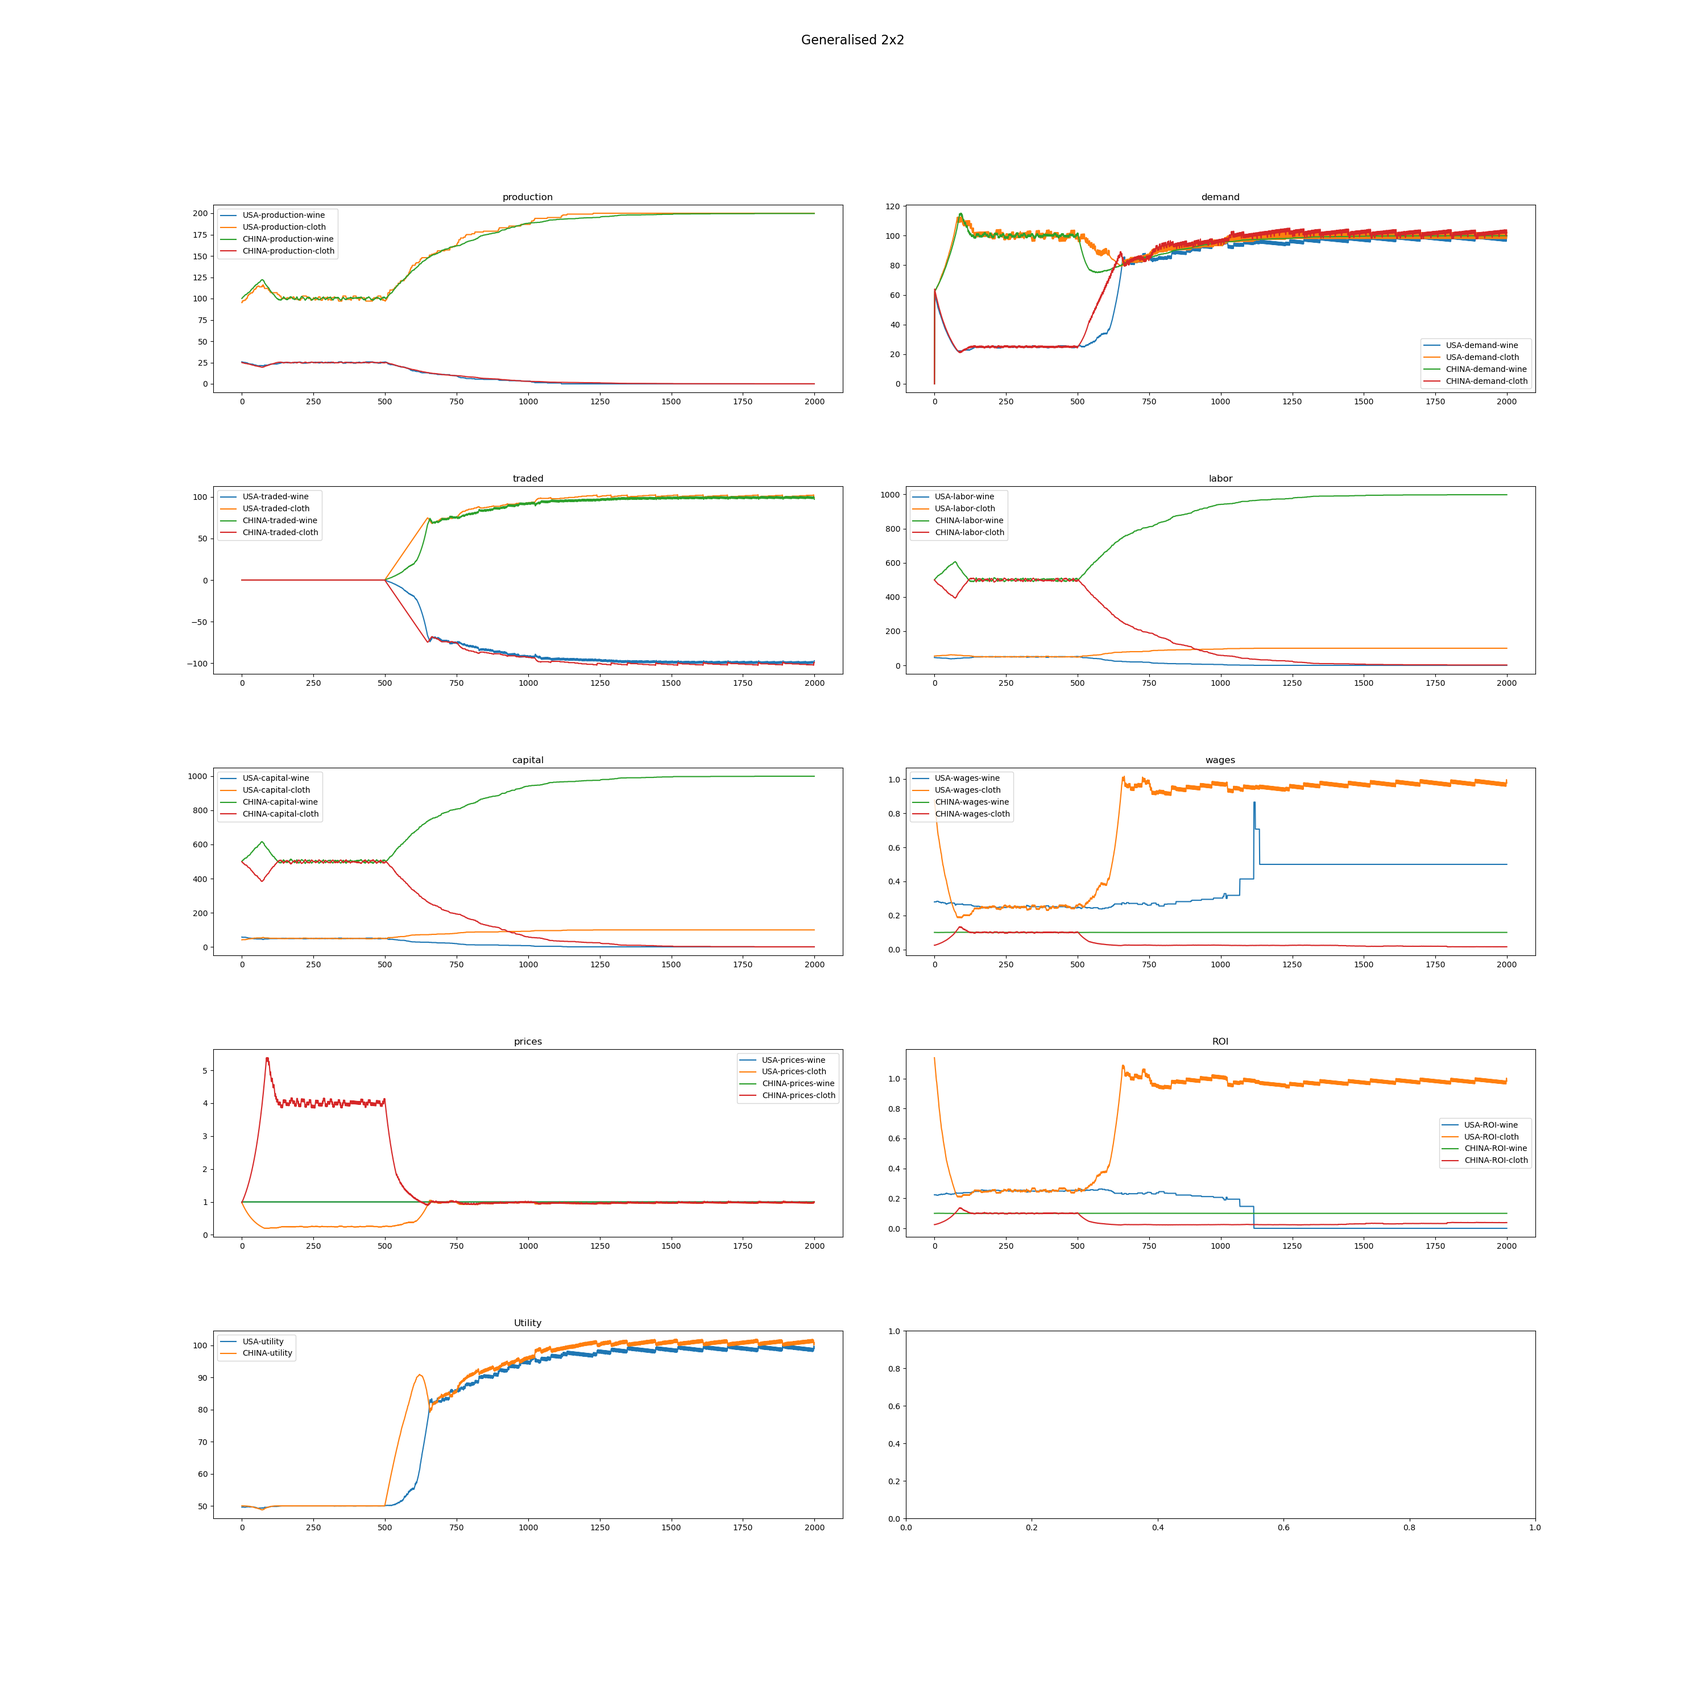
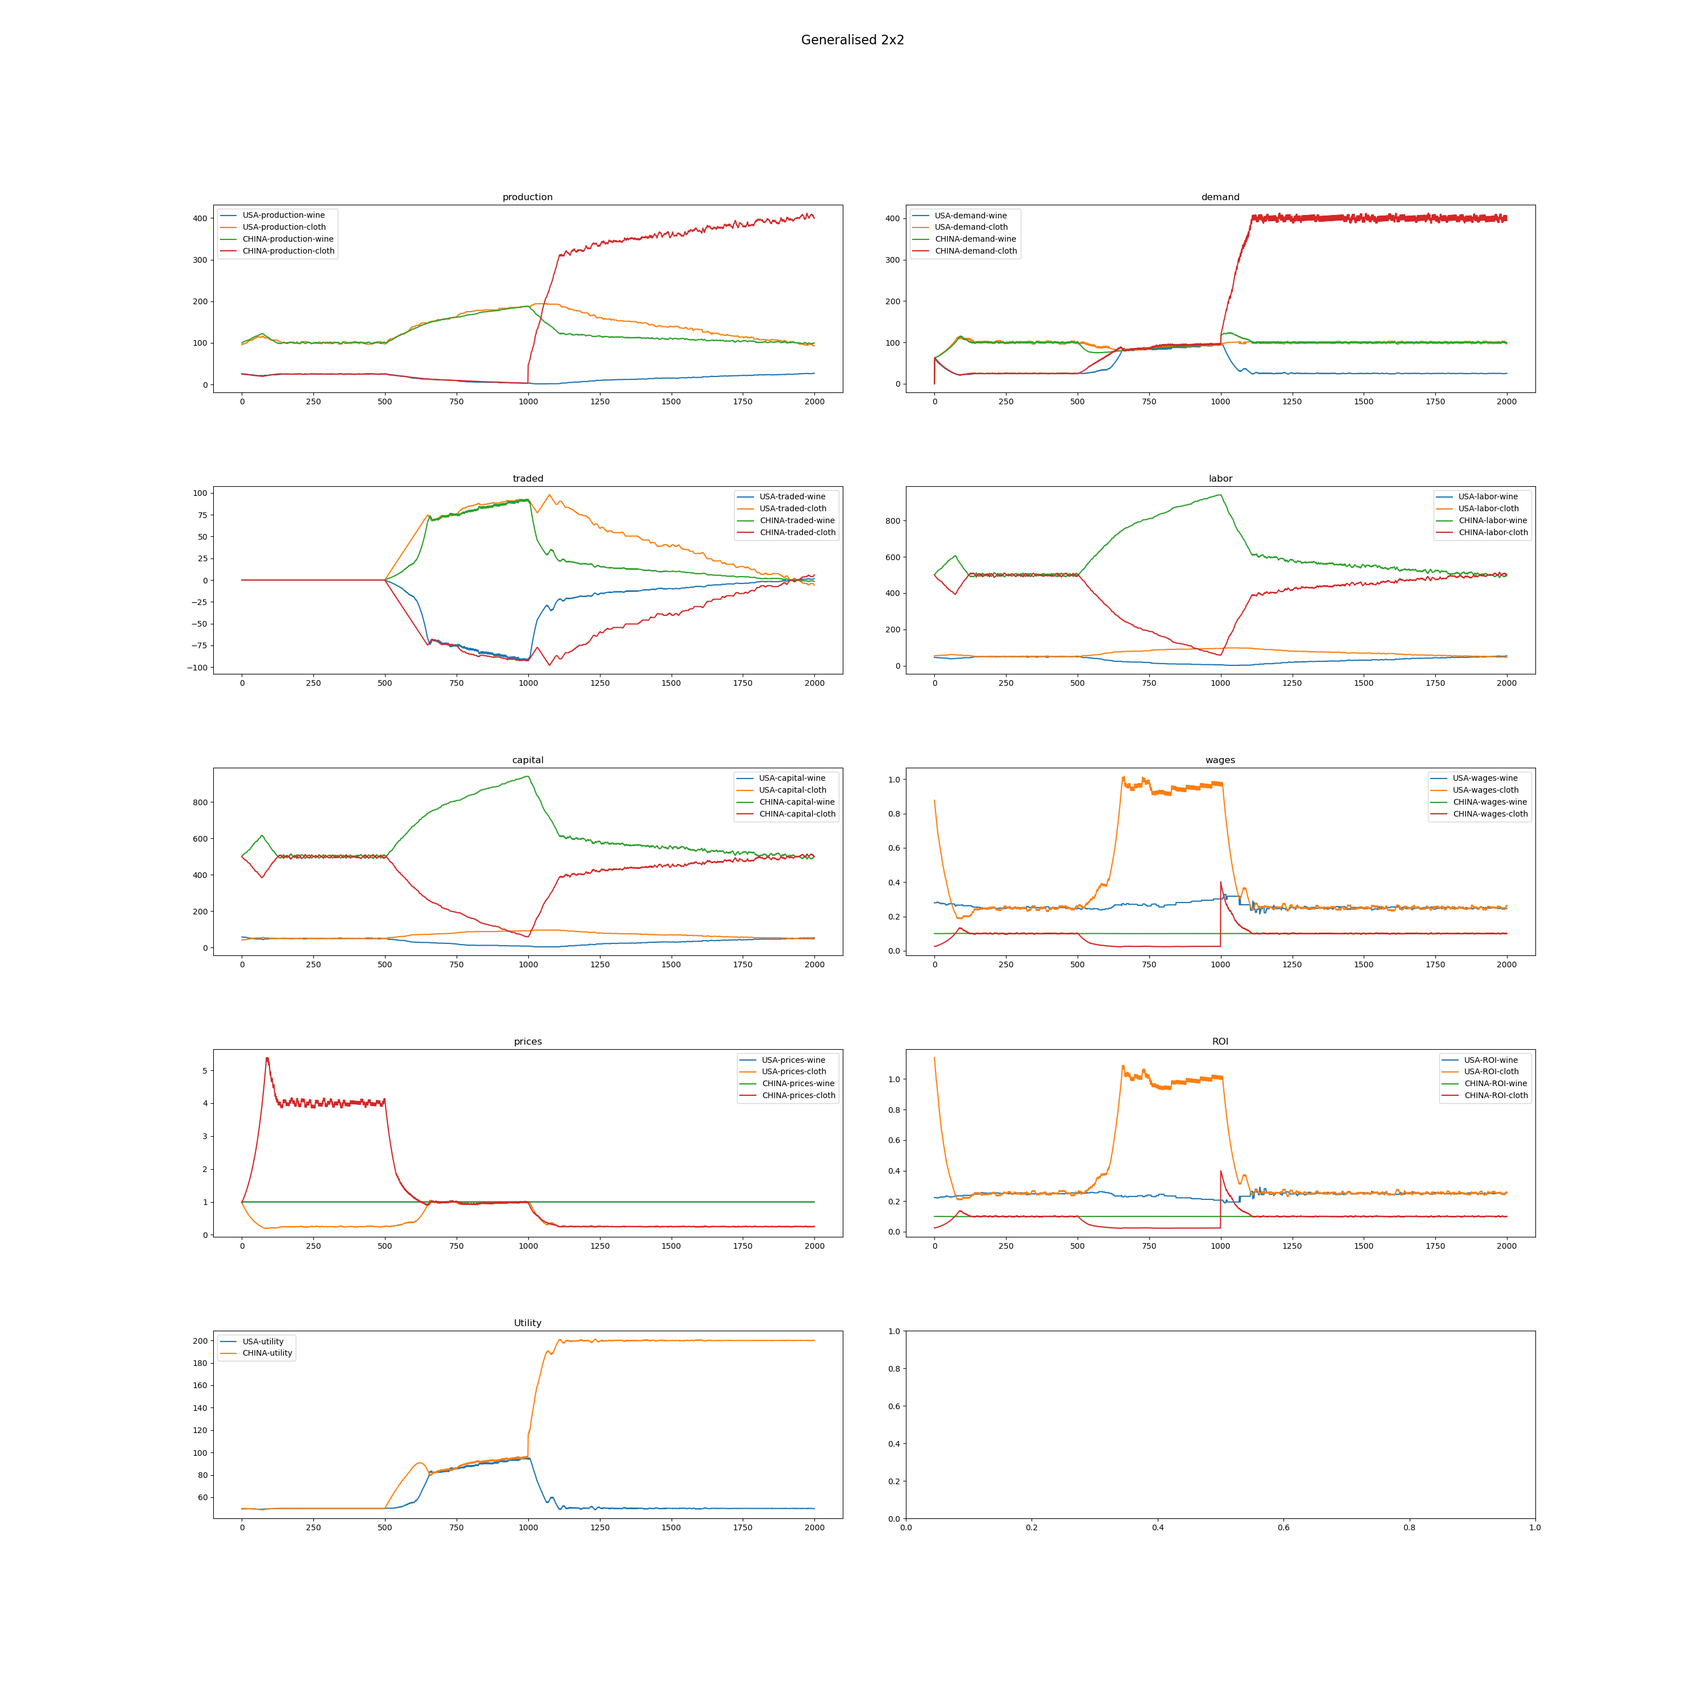
debugged agents_vec

diff --git a/Generalised/vectorised/agents_vec.py b/Generalised/vectorised/agents_vec.py
@@ -9,6 +9,7 @@ from tqdm import tqdm
 np.random.seed(0)
 
 # Constants
+case = 'sameulson_model_2x2'
 iterations = 1000
 n_countries = 2
 countries = ['USA', 'China']
@@ -16,19 +17,23 @@ products= ['wine', 'cloth']
 n_products = 2
 alpha = np.array([[0.5, 0.5],
                   [0.5, 0.5]])  # output elasticity of labor
+
 beta = np.array([[0.5, 0.5],
                  [0.5, 0.5]])  # output elasticity of capital
+
 A = np.array([[0.5, 2.0],
               [0.2, 0.05]])  # Total Factor Productivity
+
 shock = np.array([[0.5, 2.0],
                   [0.2, 0.8]])  # Total Factor Productivity
 
 # Number of citizens in each nation
 citizens_per_nation = [100, 1000]
 
-def gulden_vectorised(n_countries, n_products, countries, products, citizens_per_nation, A, alpha, beta, 
-                      iterations=2000, Tr_time=500, pricing_algorithm='cpmu', utility_algorithm='geometric', wage_algorithm = 'marginal_product',
-                      csv = False, plot = False, shock = A, shock_time = 1000, cap_mobility = False, cm_time=10000):
+
+def gulden_vectorised(case, n_countries, n_products, countries, products, citizens_per_nation, A, alpha, beta, 
+                      iterations=2000, Tr_time=500, autarky_time= 10000, pricing_algorithm='cpmu', utility_algorithm='geometric', wage_algorithm = 'marginal_product',
+                      csv = False, plot = False, shock = shock, shock_time = 1000, cap_mobility = False, cm_time=10000, d=0.0):
     
     ## Citizen-level
     # Initialize prices for each good in each nation
@@ -37,20 +42,14 @@ def gulden_vectorised(n_countries, n_products, countries, products, citizens_per
 
     # Initialize industry choices for labor and capital for each citizen in each nation
     labor_choices = [np.zeros(citizens, dtype=int) for citizens in citizens_per_nation]
-    capital_choices = [np.zeros(citizens, dtype=int) for citizens in citizens_per_nation]
+    capital_choices = [np.zeros((citizens, 2), dtype=int) for citizens in citizens_per_nation]    
     income = [np.zeros(citizens) for citizens in citizens_per_nation]
     
     # Allow capital choices to take both industry and nation if capital mobility is enabled
-    if cap_mobility:
-        capital_choices = [np.zeros((citizens, 2), dtype=int) for citizens in citizens_per_nation]
-        for nation in range(n_countries):
-            labor_choices[nation] = np.random.choice(range(n_products), citizens_per_nation[nation])
-            capital_choices[nation][:,0] = np.random.choice(range(n_products), citizens_per_nation[nation])
-            capital_choices[nation][:,1] = np.ones(citizens_per_nation[nation])*nation
-    else:
-        for nation in range(n_countries):
-            labor_choices[nation] = np.random.choice(range(n_products), citizens_per_nation[nation])
-            capital_choices[nation] = np.random.choice(range(n_products), citizens_per_nation[nation])
+    for nation in range(n_countries):
+        labor_choices[nation] = np.random.choice(range(n_products), citizens_per_nation[nation])
+        capital_choices[nation][:,0] = np.random.choice(range(n_products), citizens_per_nation[nation])
+        capital_choices[nation][:,1] = np.ones(citizens_per_nation[nation])*nation
 
     ## Nation-level
     # Calculate wages and returns to capital for each industry in each nation
@@ -71,18 +70,30 @@ def gulden_vectorised(n_countries, n_products, countries, products, citizens_per
     returns = np.zeros((n_countries, n_products,iterations))
     utility = np.zeros((n_countries, iterations))
 
+    try:
+        if len(Tr_time)>1:
+            T0 = Tr_time[0]
+            T1 = Tr_time[1]
+    except:
+        T0 = Tr_time
+        T1 = 0
+
     for t in tqdm(range(iterations)):
 
         Tr=False
         cap_mobility = False
-        if t>=Tr_time:
+
+        if t>=T0 or (T1>0 and t>=T1) :
             Tr=True
+
+        if t>=autarky_time:
+            if (T1>0 and t<T1):
+                Tr=False
 
         if t>shock_time:
             A = shock
 
-        if t>=cm_time:
-            Tr = False
+        if t>cm_time:
             cap_mobility = True
 
         
@@ -98,15 +109,14 @@ def gulden_vectorised(n_countries, n_products, countries, products, citizens_per
             max_return_industry = np.argmax(R[nation,:])
 
             event_occurs = np.random.binomial(1, 0.004, size=citizens_per_nation[nation])
-            should_change_labor = (event_occurs==1) * (W[nation, labor_choices[nation]]< W[nation, max_wage_industry])
+            should_change_labor = (event_occurs==1) * (W[nation, labor_choices[nation]]< W[nation, max_wage_industry]*(1+d))
             
             if cap_mobility:
                 max_return_industry = np.unravel_index(np.argmax(R, axis=None), R.shape)
-                # print(max_return_industry)
-                should_change_capital = (event_occurs==1) * (R[capital_choices[nation][:,1], capital_choices[nation][:,0]]<R[max_return_industry])
+                should_change_capital = (event_occurs==1) * (R[capital_choices[nation][:,1], capital_choices[nation][:,0]]<R[max_return_industry]*(1+d))
             
             else:
-                should_change_capital = (event_occurs==1) * (R[nation, capital_choices[nation][:,0]]< R[nation, max_return_industry])
+                should_change_capital = (event_occurs==1) * (R[nation, capital_choices[nation][:,0]]< R[nation,max_return_industry]*(1+d))
             labor_choices[nation][should_change_labor==1] = max_wage_industry
             capital_choices[nation][should_change_capital==1] = max_return_industry
             
@@ -172,7 +182,7 @@ def gulden_vectorised(n_countries, n_products, countries, products, citizens_per
                                 'prices':prices_vec[nation,industry,:],
                                 'demand':demand[nation,industry,:],
                                 'utility':utility[nation,:]})
-                df.to_csv('csvs/{}_{}.csv'.format(countries[nation], products[industry]))
+                df.to_csv('csvs/vectorised_{}_{}.csv'.format(countries[nation], products[industry]))
     
     # Plot the results
     if plot:
@@ -199,12 +209,19 @@ def gulden_vectorised(n_countries, n_products, countries, products, citizens_per
                 ax[3,1].set_title('Utility')
 
         ax[3,0].legend()
-        plt.show()
+        plt.savefig('plots/vectorised_{}.png'.format(case))
 
-# ## model run
-# t1 = time.time()
-# gulden_vectorised(n_countries, n_products, countries, products, citizens_per_nation, A, alpha, beta,
-#                   iterations=2000, Tr_time=500, pricing_algorithm='dgp', utility_algorithm='geometric',
-#                   cap_mobility = True, shock =shock, shock_time=10000, cm_time=10000, plot=False)
-# t2 = time.time()
-# print('Vectorised Trade model time taken: {} seconds'.format(t2-t1))
+# model run
+t1 = time.time()
+gulden_vectorised(case, n_countries, n_products, countries, products, citizens_per_nation, A, alpha, beta,
+                  iterations=2000, Tr_time=500, autarky_time=15000, pricing_algorithm='dgp', utility_algorithm='geometric',
+                  wage_algorithm='marginal_product',
+                  cap_mobility = False, shock = shock, shock_time=1000, cm_time=2500, plot=True, csv=False)
+t2 = time.time()
+print('Vectorised Trade model time taken: {} seconds'.format(t2-t1))
+
+
+
+
+
+

diff --git a/Generalised/vectorised/trials.py b/Generalised/vectorised/trials.py
@@ -1,29 +1,62 @@
 import numpy as np
 from agents_vec import gulden_vectorised as gv
 import time
+# # Constants
+# iterations = 1000
+# n_countries = 3
+# countries = ['USA', 'China', 'India']
+# products= ['wine', 'cloth', 'wheat']
+# n_products = 3
+# alpha = np.array([[0.5, 0.5,0.5],
+#                   [0.5, 0.5,0.5],
+#                   [0.5,0.5,0.5]])  # output elasticity of labor
+# beta = np.array([[0.5, 0.5,0.5],
+#                  [0.5, 0.5,0.5],
+#                  [0.5, 0.5, 0.5]])  # output elasticity of capital
+# A = np.array([[2, 1,1],
+#               [1,2,1],
+#               [1,1,2]])  # Total Factor Productivity
+# shock = np.array([[0.5, 2.0],
+#                   [0.2, 0.8]])  # Total Factor Productivity
+
+# # Number of citizens in each nation
+# citizens_per_nation = [100, 100, 100]
+# t1 = time.time()
+# gv(n_countries, n_products, countries, products, citizens_per_nation, A, alpha, beta,
+#                   iterations=2000, Tr_time=500, pricing_algorithm='cpmu', utility_algorithm='geometric',
+#                   cap_mobility = True, shock =shock, shock_time=10000, cm_time=10000, plot=True)
+# t2 = time.time()
+# print('Vectorised Trade model time taken: {} seconds'.format(t2-t1))
+
+np.random.seed(0)
+
 # Constants
+case = '2x2_GB_model'
 iterations = 1000
-n_countries = 3
-countries = ['USA', 'China', 'India']
-products= ['wine', 'cloth', 'wheat']
-n_products = 3
-alpha = np.array([[0.5, 0.5,0.5],
-                  [0.5, 0.5,0.5],
-                  [0.5,0.5,0.5]])  # output elasticity of labor
-beta = np.array([[0.5, 0.5,0.5],
-                 [0.5, 0.5,0.5],
-                 [0.5, 0.5, 0.5]])  # output elasticity of capital
-A = np.array([[2, 1,1],
-              [1,2,1],
-              [1,1,2]])  # Total Factor Productivity
-shock = np.array([[0.5, 2.0],
-                  [0.2, 0.8]])  # Total Factor Productivity
+n_countries = 2
+countries = ['USA', 'Ghana']
+products= ['wine', 'cloth']
+n_products = 2
+alpha = np.array([[0.7, 0.4],
+                  [0.7, 0.4]])  # output elasticity of labor
+
+beta = np.array([[0.7, 0.4],
+                 [0.7, 0.4]])  # output elasticity of capital
+
+A = np.array([[1, .5],
+              [0.2, 0.2]])  # Total Factor Productivity
+
+shock = np.array([[1, .5],
+                  [1.5, 0.2]])  # Total Factor Productivity
 
 # Number of citizens in each nation
-citizens_per_nation = [100, 100, 100]
+citizens_per_nation = [500, 100]
+
 t1 = time.time()
-gv(n_countries, n_products, countries, products, citizens_per_nation, A, alpha, beta,
-                  iterations=2000, Tr_time=500, pricing_algorithm='cpmu', utility_algorithm='geometric',
-                  cap_mobility = True, shock =shock, shock_time=10000, cm_time=10000, plot=False)
+
+gv(case, n_countries, n_products, countries, products, citizens_per_nation, A, alpha, beta,
+   iterations=3000, Tr_time=[500,2000], autarky_time=1500, pricing_algorithm='dgp', utility_algorithm='geometric',
+   wage_algorithm='marginal_product',
+    cap_mobility = False, shock = shock, shock_time=1000, cm_time=2500, plot=True, csv=False)
 t2 = time.time()
 print('Vectorised Trade model time taken: {} seconds'.format(t2-t1))

diff --git a/Generalised/New_trader.py b/Generalised/New_trader.py
@@ -5,7 +5,7 @@ from wages import wagesAsShareOfMarginalProduct, wageAsMarginalProductROIAsResid
 
 case = 'new_trader'
 countries = ['USA','CHINA','INDIA']
-count = [100, 1000,1000]
+count = [100, 1000, 1000]
 industries = ['wine','cloth']
 
 P={}
@@ -19,14 +19,35 @@ A['CHINA'] = [0.2, 0.05]
 A['INDIA'] = [0.2, 0.05]
 
 alpha={}
-alpha['USA'] =   [0.7, 0.7]
-alpha['CHINA'] = [0.7, 0.7]
-alpha['INDIA'] = [0.7, 0.7]
+alpha['USA'] =   [0.5, 0.5]
+alpha['CHINA'] = [0.5, 0.5]
+alpha['INDIA'] = [0.5, 0.5]
 
 beta={}
-beta['USA'] =   [0.4, 0.4]
-beta['CHINA'] = [0.4, 0.4]
-beta['INDIA'] = [0.4, 0.4]   
+beta['USA'] =   [0.5, 0.5]
+beta['CHINA'] = [0.5, 0.5]
+beta['INDIA'] = [0.5, 0.5]   
+
+# 3-product case
+# P={}
+# P['USA'] =   [1,1,1]
+# P['CHINA'] = [1,1,1]
+# P['INDIA'] = [1,1,1]
+
+# A={}
+# A['USA']=    [0.5, 2, 1]
+# A['CHINA'] = [0.2, 0.05, 1]
+# A['INDIA'] = [0.15, 0.1, 1]
+
+# alpha={}
+# alpha['USA'] =   [0.5, 0.5, 0.5]
+# alpha['CHINA'] = [0.5, 0.5, 0.5]
+# alpha['INDIA'] = [0.5, 0.5, 0.5]
+
+# beta={}
+# beta['USA'] =   [0.5, 0.5,0.5]
+# beta['CHINA'] = [0.5, 0.5,0.5]
+# beta['INDIA'] = [0.5, 0.5,0.5]   
 
 shock = [0.2, 0.8]
 
@@ -179,12 +200,21 @@ def gulden(case=case, countries=countries, count=count, industries=industries, P
         
         # axs[k].plot(sum(resultsU.values()), label='{}-{}'.format('World','utility'))
         plt.suptitle('Generalised {}'.format(case), fontsize=16)
-        plt.savefig('plots/{}.png'.format(case))
+        plt.savefig('plots/{}_dgp.png'.format(case))
     return production, resultsdict
 
 # Model--Run
-production, resultsdict = gulden(case=case, countries=countries, count=count, industries=industries, P=P, A=A, alpha=alpha, beta=beta, 
+production, resultsdict = gulden(case='new_trader_2', countries=countries, count=count, industries=industries, P=P, A=A, alpha=alpha, beta=beta, 
                                  total_time = 2000, trade_time = 500, trading_countries=['USA','CHINA'],
                                  pd_time=10000, shock=shock, cm_time=6000, autarky_time=5000, new_trader_time=1000,
                                  pricing_algorithm =demand_gap_pricing, wage_algorithm = wageAsMarginalProductROIAsResidual, utility_algorithm = 'geometric', d=0.000000005)
+
+production, resultsdict = gulden(case='3-traders_2', countries=countries, count=count, industries=industries, P=P, A=A, alpha=alpha, beta=beta, 
+                                 total_time = 2000, trade_time = 500, trading_countries=['USA','CHINA','INDIA'],
+                                 pd_time=10000, shock=shock, cm_time=6000, autarky_time=5000,
+                                 pricing_algorithm =demand_gap_pricing, wage_algorithm = wageAsMarginalProductROIAsResidual, utility_algorithm = 'geometric', d=0.000000005)
+
+
+# Model run with different pricing algorithm
+
 

diff --git a/Generalised/vectorised/tradeutils.py b/Generalised/vectorised/tradeutils.py
@@ -52,15 +52,15 @@ def resetAllMonetaryFlows(trade_volume, S, prices):
                     continue
                 old_trade_volume = trade_volume[c1,c2,i]
 
-                if old_trade_volume< 0.0:
+                if old_trade_volume < 0.0:
                     new_trade_volume = old_trade_volume * export_adjustment[c1,i]
-                    trade_cost = -trade_volume[c1,c2,i]/prices[c1,i]
+                    trade_cost = -trade_volume[c1,c2,i]*prices[c1,i]
 
                     if nominal_budget_left[c2] < abs(trade_cost):
                         trade_cost = nominal_budget_left[c2]
                         new_trade_volume = -trade_cost/prices[c1,i]
 
-                    if abs(trade_cost)> 10000 or abs(new_trade_volume)>10000:
+                    if abs(trade_cost)> 1000 or abs(new_trade_volume)>1000:
                         print('Error')
                         sys.exit(0)
 
@@ -73,7 +73,6 @@ def resetAllMonetaryFlows(trade_volume, S, prices):
                     old_price = prices[c1,i]
                     nominal_budget_left[c1] += (trade_cost + old_trade_volume * old_price)
                     nominal_budget_left[c2] -= (trade_cost + old_trade_volume * old_price)
-
 
 def doAllTrades(trade_volume, S, prices):
         resetAllMonetaryFlows(trade_volume, S, prices)

diff --git a/Generalised/main.py b/Generalised/main.py
@@ -159,8 +159,8 @@ def gulden(case=case, countries=countries, count=count, industries=industries, P
 # Model--Run
 t1 = time.time()
 production, resultsdict = gulden(case=case, countries=countries, count=count, industries=industries, P=P, A=A, alpha=alpha, beta=beta, total_time = 2000, trade_time = 500,
-                                         pd_time=10000, shock=shock, cm_time=5000, autarky_time=5000,
-                                         pricing_algorithm =compute_price_marginal_utilities, wage_algorithm = wageAsMarginalProductROIAsResidual, utility_algorithm = 'geometric', 
-                                         weights=weights, elasticities=elasticities, sigma=sigma, d=0.00000000, plot=False)
+                                         pd_time=1000, shock=shock, cm_time=5000, autarky_time=5000,
+                                         pricing_algorithm =demand_gap_pricing, wage_algorithm = wageAsMarginalProductROIAsResidual, utility_algorithm = 'geometric', 
+                                         weights=weights, elasticities=elasticities, sigma=sigma, d=0.00000000, plot=False, csv=False)
 t2 = time.time()
 print('Trade_model Time taken: {} seconds'.format(t2-t1))

diff --git a/Generalised/Agents.py b/Generalised/Agents.py
@@ -278,6 +278,11 @@ class Nation:
             
         self.pricing_algorithm(self, weights, elasticities, sigma)
 
+    def TechChange(A):
+    
+        return A
+
+
     def utilityFunction(self, consumption: Dict[str,float], weights=None, elasticities=None, sigma=None):
         import numpy as np
 

diff --git a/Generalised/init.py b/Generalised/init.py
@@ -1,7 +1,7 @@
 ## Initialisations
 # 2x2 case
 
-case = '3x3'
+case = '2x2'
 
 if case == '2x2':
     countries = ['USA','CHINA']

diff --git a/Generalised/functions.py b/Generalised/functions.py
@@ -15,3 +15,4 @@ def demand_function(Y, P):
         D[p] = Y / (len(P) * P[p])
 
     return D
+
